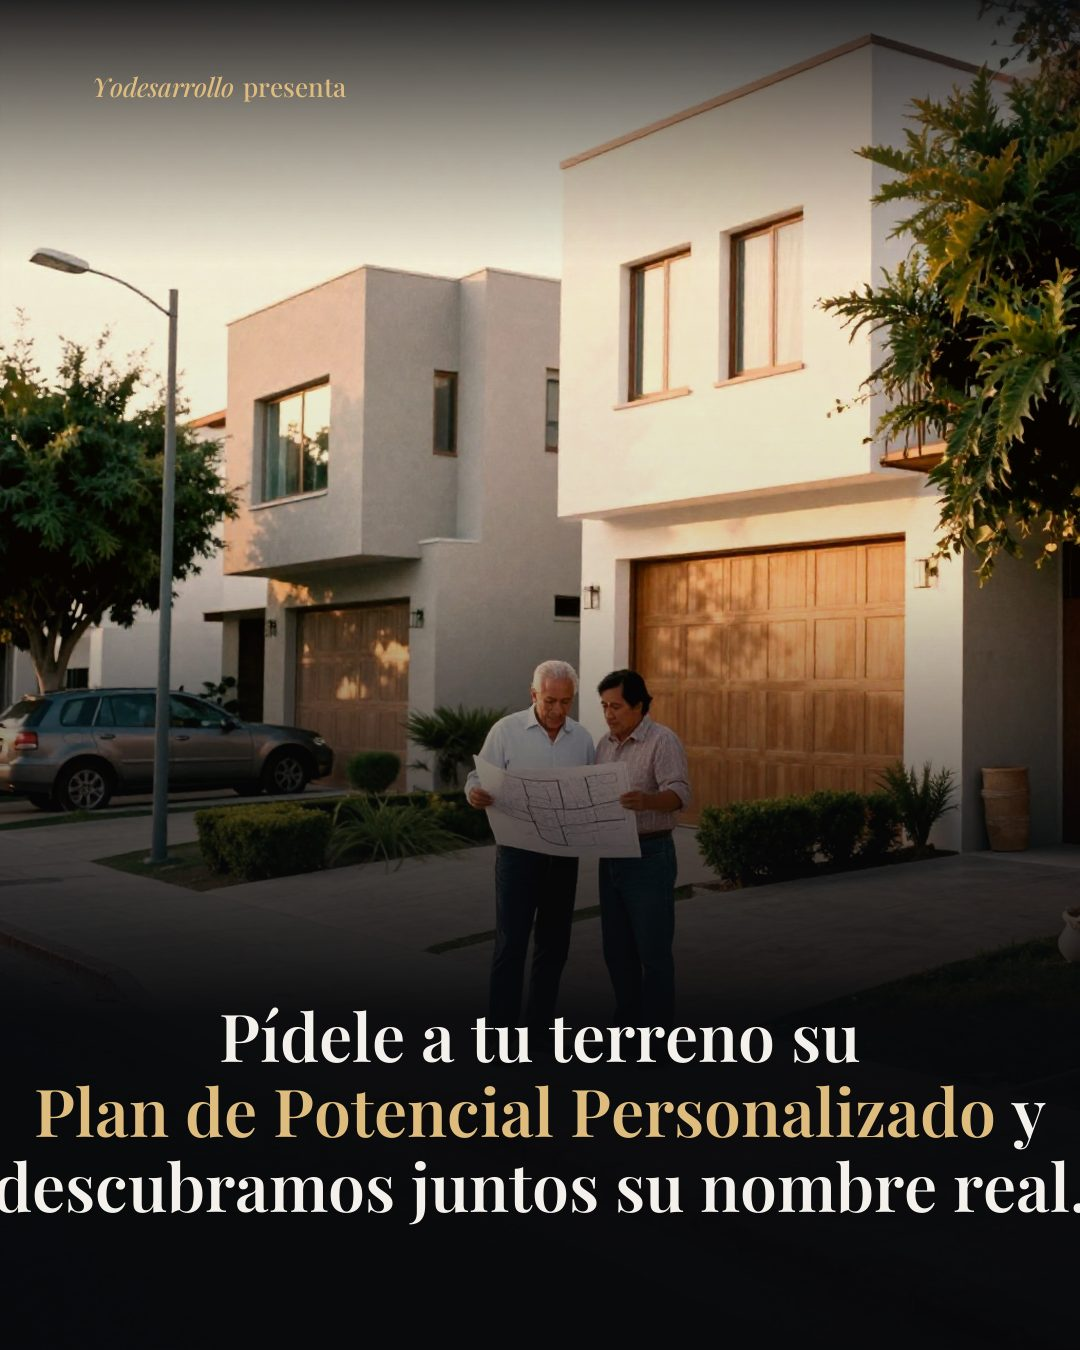
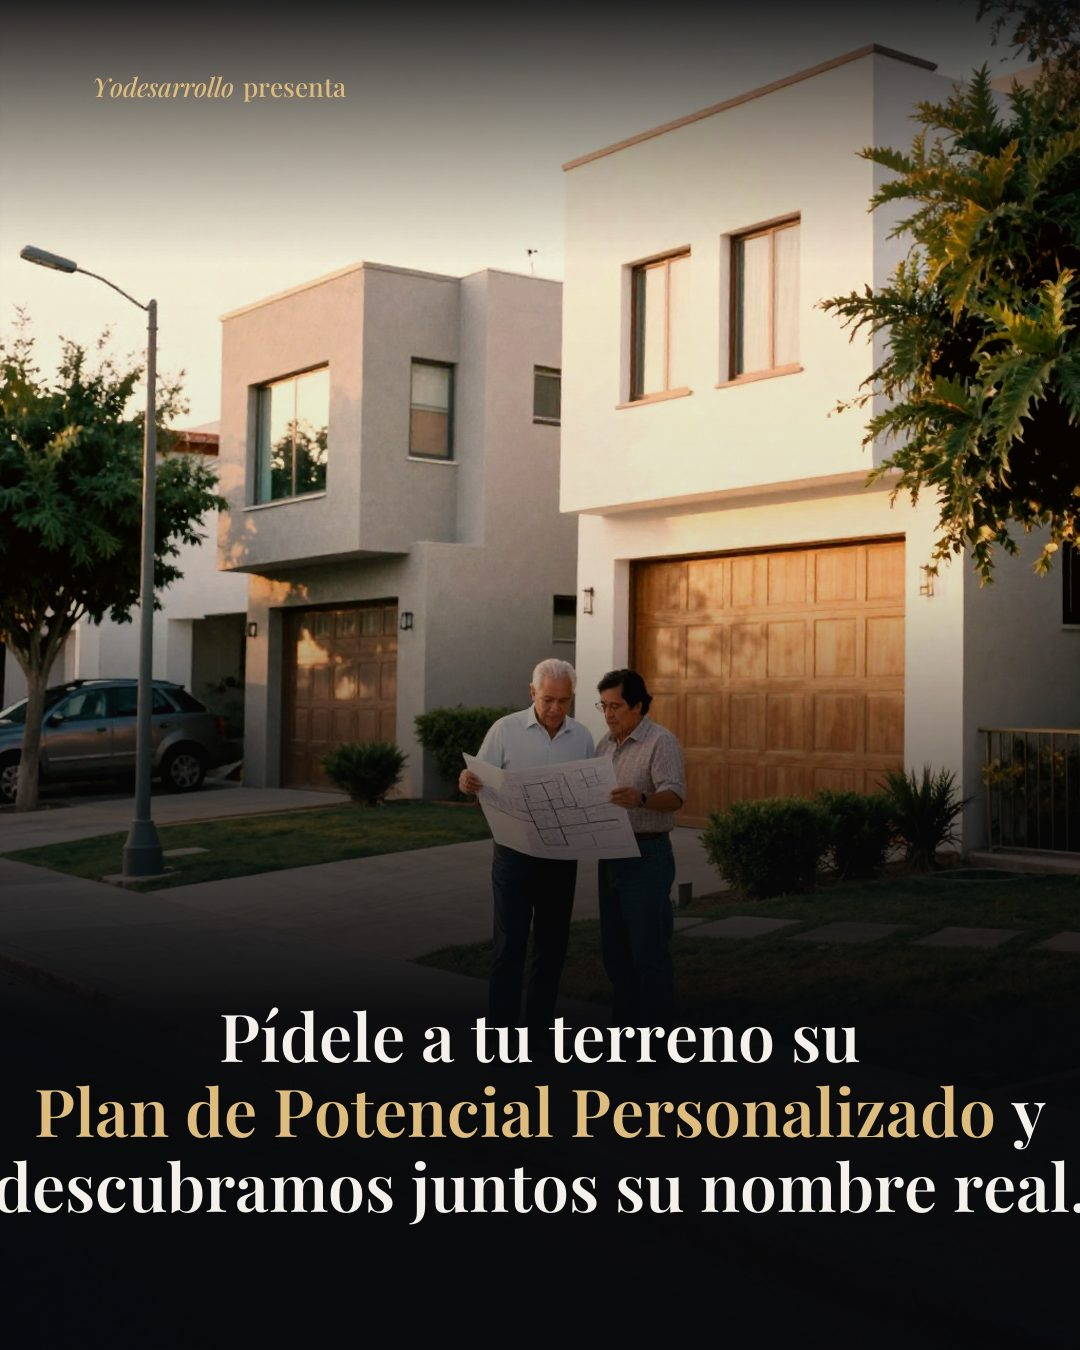
La Chinche vive en la Sala: señala en todas las pantallas y dentro de los pop-ups; cada chinche sale al Sheet como ENCARGO · chinche

diff --git a/index.html b/index.html
@@ -641,7 +641,7 @@ const LLAVES=()=>[...new Set([localStorage.getItem('pyod_clave_v1'),localStorage
 const ROL=()=>localStorage.getItem('sala_rol')||'lector';   // 8-sep (auditoría): antes 'editor' por defecto — quien abría la liga pública SIN haber entrado nunca, ya podía decidir en pantalla
 /* ?vista=editor sirve SOLO para documentar con capturas: pinta la mesa como la ve un
    editor sin dar permiso de nada — el Sheet sigue rechazando a quien no puede decidir. */
-const SELLO_SALA='08f388c324';   // 8-sep: sello de versión; la Sala avisa si el servidor ya tiene una más nueva
+const SELLO_SALA='f8f49e0b97';   // 8-sep: sello de versión; la Sala avisa si el servidor ya tiene una más nueva
 const VISTA_DOC=new URLSearchParams(location.search).get('vista')==='editor';
 // 8-sep (auditoría): DECIDE() ya no se fía solo del rol guardado en este aparato — una liga vieja con
 // `#rol=editor` lo deja escrito en localStorage para siempre. Sin ENTRADO() (sin ninguna clave guardada
@@ -2163,6 +2163,32 @@ const _bArb=$('#arbActualizar'); if(_bArb) _bArb.onclick=()=>pintarArbol();
 // el Árbol es la puerta de entrada (14-sep noche): se pinta al abrir, y Hoy avisa cuántas decisiones esperan
 if(document.body.dataset.vista==='arbol'){ pintarArbol(); }
 setInterval(()=>{ try{ const c=cuentas(); avisarPuerta('hoy', !!(c&&c.hoy>0)); const b=document.querySelector('#puertas button[data-v="hoy"] .punto'); if(b) b.textContent=c&&c.hoy>0?c.hoy:''; }catch(e){} },1500);
+
+/* ══ LA CHINCHE dentro de la Sala (15-sep) ══
+   Alejandro: «tengo una chinche en YOD OS pero no aplica dentro de la Sala ni de lo que sale en la
+   pantalla; quiero seleccionar también dentro de la ventana pop-up… así puedo marcarte detalles más
+   exactos». Decisión: la Chinche VIVE en la Sala (no la del tablero de afuera). Por qué: (1) el OS
+   la muestra en un iframe y `elementFromPoint` no cruza al iframe — la de afuera nunca podrá señalar
+   adentro; (2) los pop-ups (`hoja()`) son parte de este documento, así que aquí sí se pican;
+   (3) la Sala sabe QUÉ tiene enfrente (pieza, lámina, carta, fruto) y lo clava como dato exacto;
+   (4) cada chinche sale al Sheet como «ENCARGO · chinche» y /sala la cosecha sin esperar un zip.
+   El script es el mismo del portal (mismo origen): una sola Chinche, no dos. */
+function chincheContexto(){
+  const v=document.body.dataset.vista||''; const x=(typeof pasos!=='undefined'&&pasos[idx])||null;
+  const capa=document.querySelector('.velo .hoja'); const fichaTit=capa&&capa.querySelector('h3')?capa.querySelector('h3').textContent:'';
+  return { vista:v, popup:capa?(fichaTit||'abierto'):'', carta:x?{pid:x.pid,tipo:x.tipo,lamina:x.tipo==='lamina'?nLamina(x):null,pieza:piezaDe(x)}:null };
+}
+function chincheClavada(ch){
+  const c=chincheContexto();
+  const det=JSON.stringify({id:ch.id,texto:ch.texto,tipo:ch.tipo,vista:c.vista,popup:c.popup,carta:c.carta,
+    elemento:ch.elemento?{css:ch.elemento.css,texto:ch.elemento.texto,seccion:ch.elemento.seccion}:null,url:ch.url});
+  try{ mandarProduccion('ENCARGO · chinche · '+(c.carta&&c.carta.pieza?c.carta.pieza:(c.popup||c.vista)), det, false) }catch(e){}
+}
+(function(){ const s=document.createElement('script'); s.src='/yod-portal/chinche.js?v=sala1';
+  s.onload=()=>{ try{ window.YODChinche&&YODChinche.init({pantalla:'sala', vista:()=>chincheContexto().vista,
+      seccion:()=>{ const c=chincheContexto(); return c.popup?('pop-up: '+c.popup):(c.carta?('carta '+c.carta.pid+(c.carta.lamina?' · lámina '+c.carta.lamina:'')):c.vista) },
+      valores:()=>chincheContexto(), alClavar:chincheClavada}) }catch(e){ console.warn('chinche',e) } };
+  document.head.appendChild(s) })();
 
 /* ══ arranque ══ */
 function pintarFecha(f){ try{ $('#fechaTxt').textContent=new Date(f+'T12:00:00').toLocaleDateString('es-MX',{weekday:'long',day:'numeric',month:'long'}) }catch(e){ $('#fechaTxt').textContent=f } }
